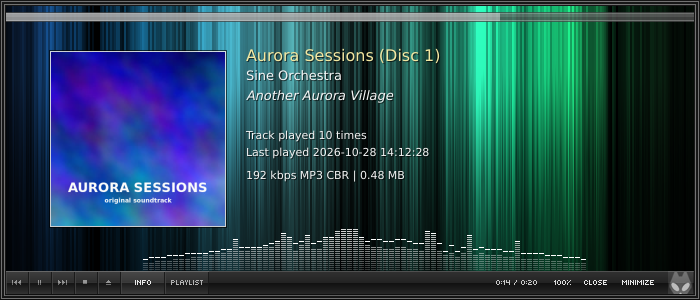
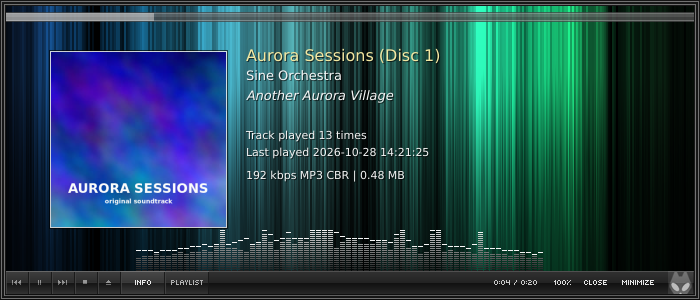
Skin: spectrum after the skin's channel spectrum panel settings
The original panel (foo_uie_vis_channel_spectrum by ssenna) is closed
source, so the behaviour is taken from the panel configuration stored in
the skin's .pui file and from a screenshot of the original:

- FFT size 2048, bars 5px wide with a 1px gap (stored settings)
- Colours from the stored settings: segments graded by height from
  #202020 at the bottom to #E4E4E4 at the top (opaque), peak caps #F5F5F5
  on every bar; at rest the caps form the dashed base line (no separate
  base line any more)
- Levels: strongest FFT bin per band on a dB scale instead of the band
  energy, so the highs fall off by themselves; the artificial weighting of
  the outer bars is gone
- 68 bars (34 per channel) from x=136, base line right above the button
  row, as measured in the reference at 700x300

Claude-Session: https://claude.ai/code/session_015BRbPGubUmtxsC6CGuuWu9

diff --git a/src/skin/SkinView.cpp b/src/skin/SkinView.cpp
@@ -230,10 +230,6 @@ void SkinView::animate()
         float target = 0.f;
         if (!levels.empty())
             target = levels[std::min(levels.size() - 1, band * levels.size() / half)];
-        // The outer bars react less and less to the loudness.
-        const float d = float(band) / float(std::max<size_t>(1, half - 1));
-        target *= 1.f - 0.6f * std::pow(d, 1.5f);
-
         float &bar = m_bars[i];
         if (target > bar)
             bar += (target - bar) * 0.7f; // quick rise
@@ -272,10 +268,11 @@ void SkinView::layoutParts()
     m_barRect = QRect(kFrame, h - kFrame - kBarH, w - 2 * kFrame, kBarH);
     const QRect panel(kFrame, kPanelY, w - 2 * kFrame, m_barRect.top() - kPanelY);
 
-    // The spectrum sits above the buttons, in the middle like in the screenshot.
-    const int specWidth = int(panel.width() * 0.66) / kBarStep * kBarStep;
-    m_spectrumRect = QRect(panel.left() + int(panel.width() * 0.2), m_barRect.top() - kSpectrumH - 1, specWidth,
-                           kSpectrumH / kSegment * kSegment);
+    // Measured in the reference at 700x300: 68 bars (34 per channel) from x=136,
+    // the base line right above the buttons. Other sizes scale with the panel.
+    const int bars = std::max(8, int(std::lround(panel.width() * 68.0 / 688.0 / 2.0)) * 2);
+    m_spectrumRect = QRect(panel.left() + int(std::lround(panel.width() * 130.0 / 688.0)),
+                           m_barRect.top() - kSpectrumH, bars * kBarStep, kSpectrumH / kSegment * kSegment);
 
     // Cover 175px at (45,30) of the panel, text from x=240; smaller in a small window.
     const int coverSide = std::clamp(m_spectrumRect.top() - 2 - (panel.top() + 30), 64, 175);
@@ -485,22 +482,21 @@ void SkinView::paintSpectrum(QPainter &p)
     p.setRenderHint(QPainter::Antialiasing, false);
     const int segments = m_spectrumRect.height() / kSegment;
     const int bars = spectrumBands();
+    // As configured in the skin's channel spectrum panel: bars 5px wide with a
+    // 1px gap, coloured by height from #202020 at the bottom to #E4E4E4 at the
+    // top, and a #F5F5F5 peak cap on every bar (at rest the caps form the
+    // dashed line at the bottom).
     for (int i = 0; i < bars; ++i) {
         const float level = i < int(m_bars.size()) ? m_bars[size_t(i)] : 0.f;
         const float peak = i < int(m_peaks.size()) ? m_peaks[size_t(i)] : 0.f;
-        const int lit = int(std::lround(level * segments));
+        const int lit = std::min(segments - 1, int(std::lround(level * segments)));
         const int x = m_spectrumRect.left() + i * kBarStep;
-        // The lowest segment always shows, as a dashed base line.
-        for (int s = 0; s < std::max(lit, 1); ++s) {
-            const int y = m_spectrumRect.bottom() - s * kSegment;
-            // The higher, the less transparent.
-            const int alpha = lit == 0 ? 60 : int(45 + 190.0 * (s + 1) / segments);
-            p.fillRect(QRect(x, y, kBarStep - 1, 1), QColor(235, 235, 235, alpha));
+        for (int s = 0; s < lit; ++s) {
+            const int v = 0x20 + (0xe4 - 0x20) * s / std::max(1, segments - 1);
+            p.fillRect(QRect(x, m_spectrumRect.bottom() - s * kSegment, kBarStep - 1, 1), grey(v));
         }
-        // A white cap marks the recent peak.
-        const int cap = std::max(int(std::lround(peak * segments)), lit);
-        if (peak > 0.02f && cap < segments)
-            p.fillRect(QRect(x, m_spectrumRect.bottom() - cap * kSegment, kBarStep - 1, 1), QColor(255, 255, 255));
+        const int cap = std::min(segments - 1, std::max(int(std::lround(peak * segments)), lit));
+        p.fillRect(QRect(x, m_spectrumRect.bottom() - cap * kSegment, kBarStep - 1, 1), grey(0xf5));
     }
 }
 

diff --git a/src/audio/Spectrum.cpp b/src/audio/Spectrum.cpp
@@ -68,11 +68,12 @@ std::vector<float> Spectrum::analyse(const float *samples, int sampleRate, int b
         int k0 = int(f0 / binHz), k1 = int(f1 / binHz);
         k0 = std::clamp(k0, 1, m_size / 2 - 1);
         k1 = std::clamp(std::max(k1, k0 + 1), k0 + 1, m_size / 2);
-        // Energy of the band, so broad sounds count as much as single tones.
-        float power = 0.f;
+        // Like foobar2000's spectrum panels: the strongest bin of the band, on a dB scale.
+        // (No energy sum: wide high bands do not add up, so quiet highs stay low.)
+        float peak = 0.f;
         for (int k = k0; k < k1; ++k)
-            power += re[size_t(k)] * re[size_t(k)] + im[size_t(k)] * im[size_t(k)];
-        float dB = 10.f * std::log10(std::max(power / (reference * reference), 1e-12f));
+            peak = std::max(peak, re[size_t(k)] * re[size_t(k)] + im[size_t(k)] * im[size_t(k)]);
+        const float dB = 10.f * std::log10(std::max(peak / (reference * reference), 1e-12f));
         // -kHeadroom dB fills the bar, -(kHeadroom + kRange) dB leaves it empty.
         levels[size_t(b)] = std::clamp((dB + kHeadroom + kRange) / kRange, 0.f, 1.f);
     }

diff --git a/README.md b/README.md
@@ -75,10 +75,12 @@ QPainter gezeichnet.
 * **Info-Seite**: das Cover (175 px; eingebettetes Bild oder `cover.jpg`, `folder.jpg` usw. im Ordner). Daneben stehen Album, Interpret, Titel (aus den Tags, sonst aus den
   Ordnernamen), „Track played N times“, „Last played …“ und das Format („192 kbps MP3 CBR | 4.85 MB“).
   Bei Internetradio stehen dort Sender, Interpret und Titel aus den Stream-Metadaten.
-* **Spektrum-Analyzer** auf der Info-Seite, wie im Original von der Mitte aus gespiegelt: tiefe Frequenzen in
-  der Mitte, der linke Kanal nach links, der rechte nach rechts; die äußeren Balken reagieren immer weniger auf
-  die Lautstärke. 2048er FFT pro Kanal auf den gerade hörbaren Samples (mit der Ausgabelatenz verrechnet),
-  logarithmische Bänder. Balken aus 1-px-Strichen, die nach oben deckender werden, mit fallenden Peak-Kappen.
+* **Spektrum-Analyzer** auf der Info-Seite, nach dem „Channel Spectrum panel“ des Skins: von der Mitte aus
+  gespiegelt (tiefe Frequenzen in der Mitte, linker Kanal nach links, rechter nach rechts), 34 Balken pro
+  Kanal, 5 px breit mit 1 px Abstand, 2048er FFT, pro Band der lauteste Bin in dB. Die Striche sind nach Höhe
+  von `#202020` bis `#E4E4E4` eingefärbt, jeder Balken trägt eine fallende Peak-Kappe in `#F5F5F5` (in Ruhe
+  bilden die Kappen die gestrichelte Grundlinie). FFT-Größe, Balkenmaße und Farben stammen aus der gespeicherten
+  Panel-Konfiguration des Skins, Lage und Balkenzahl aus einem Screenshot des Originals.
 * **Playlist-Seite**: Gruppen je Album mit Kopfzeile (Album und Interpret aus den Ordnernamen, so müssen keine
   Tags gelesen werden), Nummernspalte, ▶/❚❚ und Restzeit beim laufenden Titel, Cover neben jeder Gruppe
 * Seekbar und Knopfreihe in Glas-Optik (heller Rand, glänzende obere und dunklere untere Hälfte) mit Pixelschrift: ⏮ ⏯ ⏭ ■ ⏏ (Ordner öffnen), INFO, PLAYLIST, Zeit,
